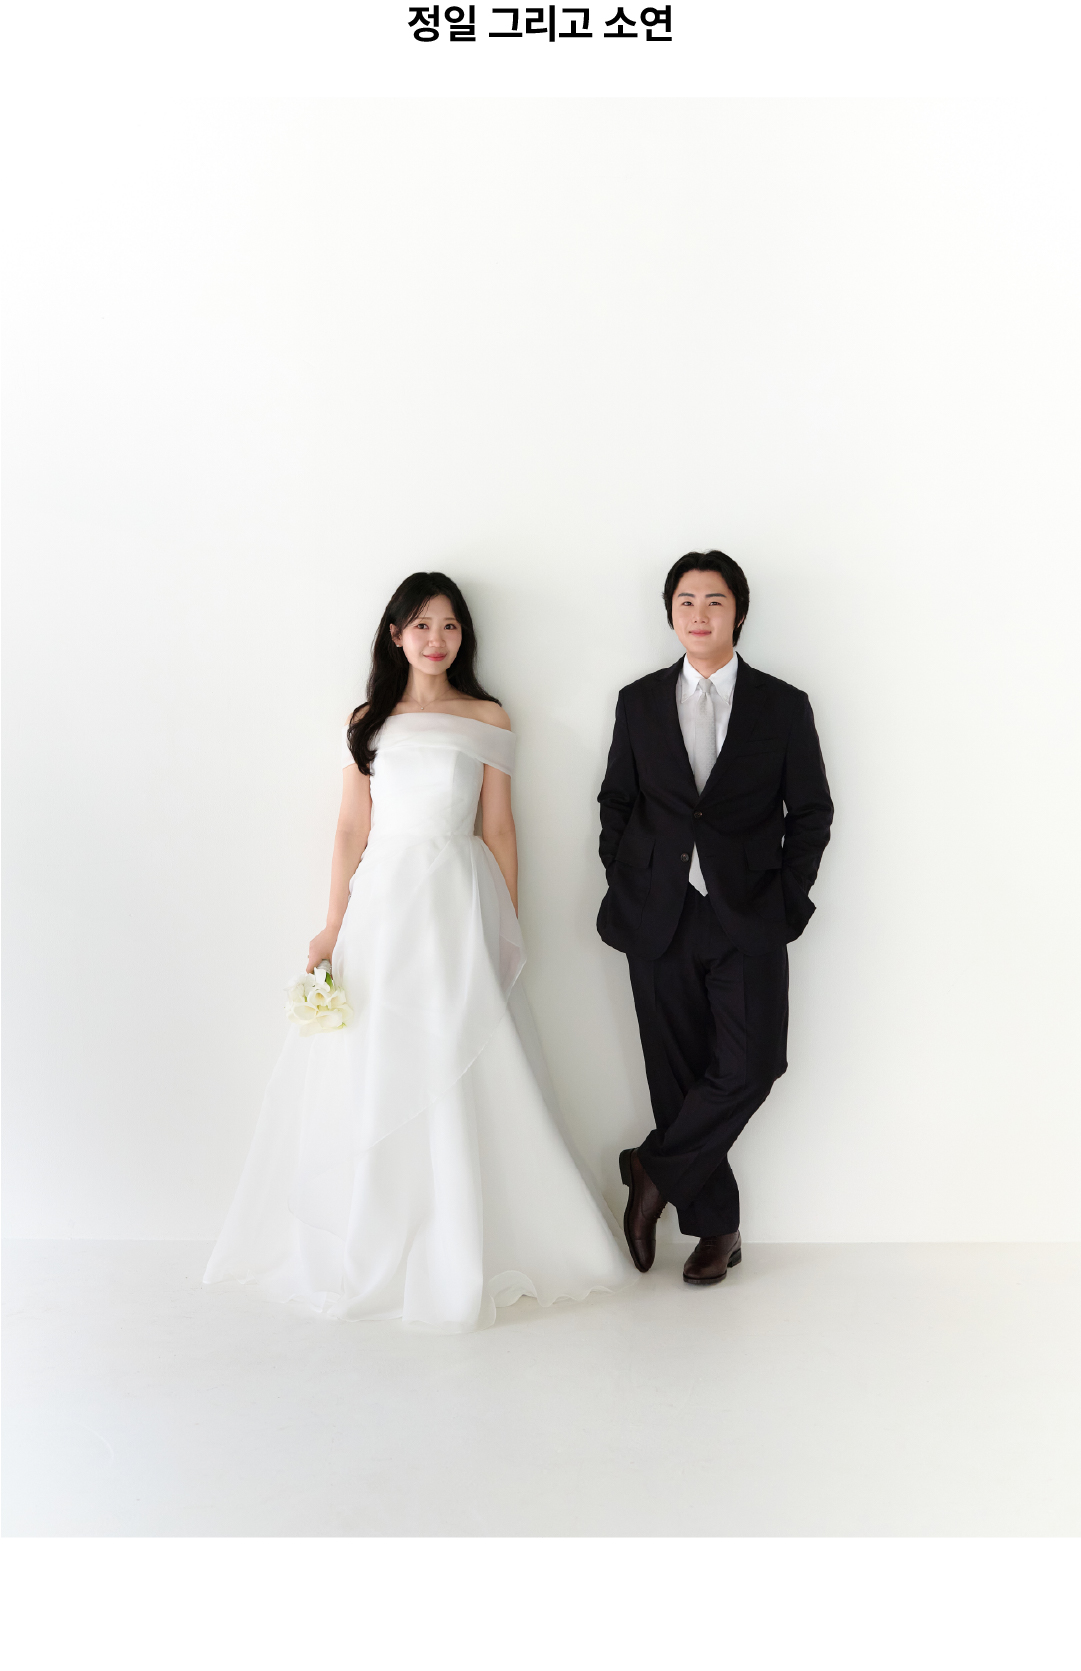
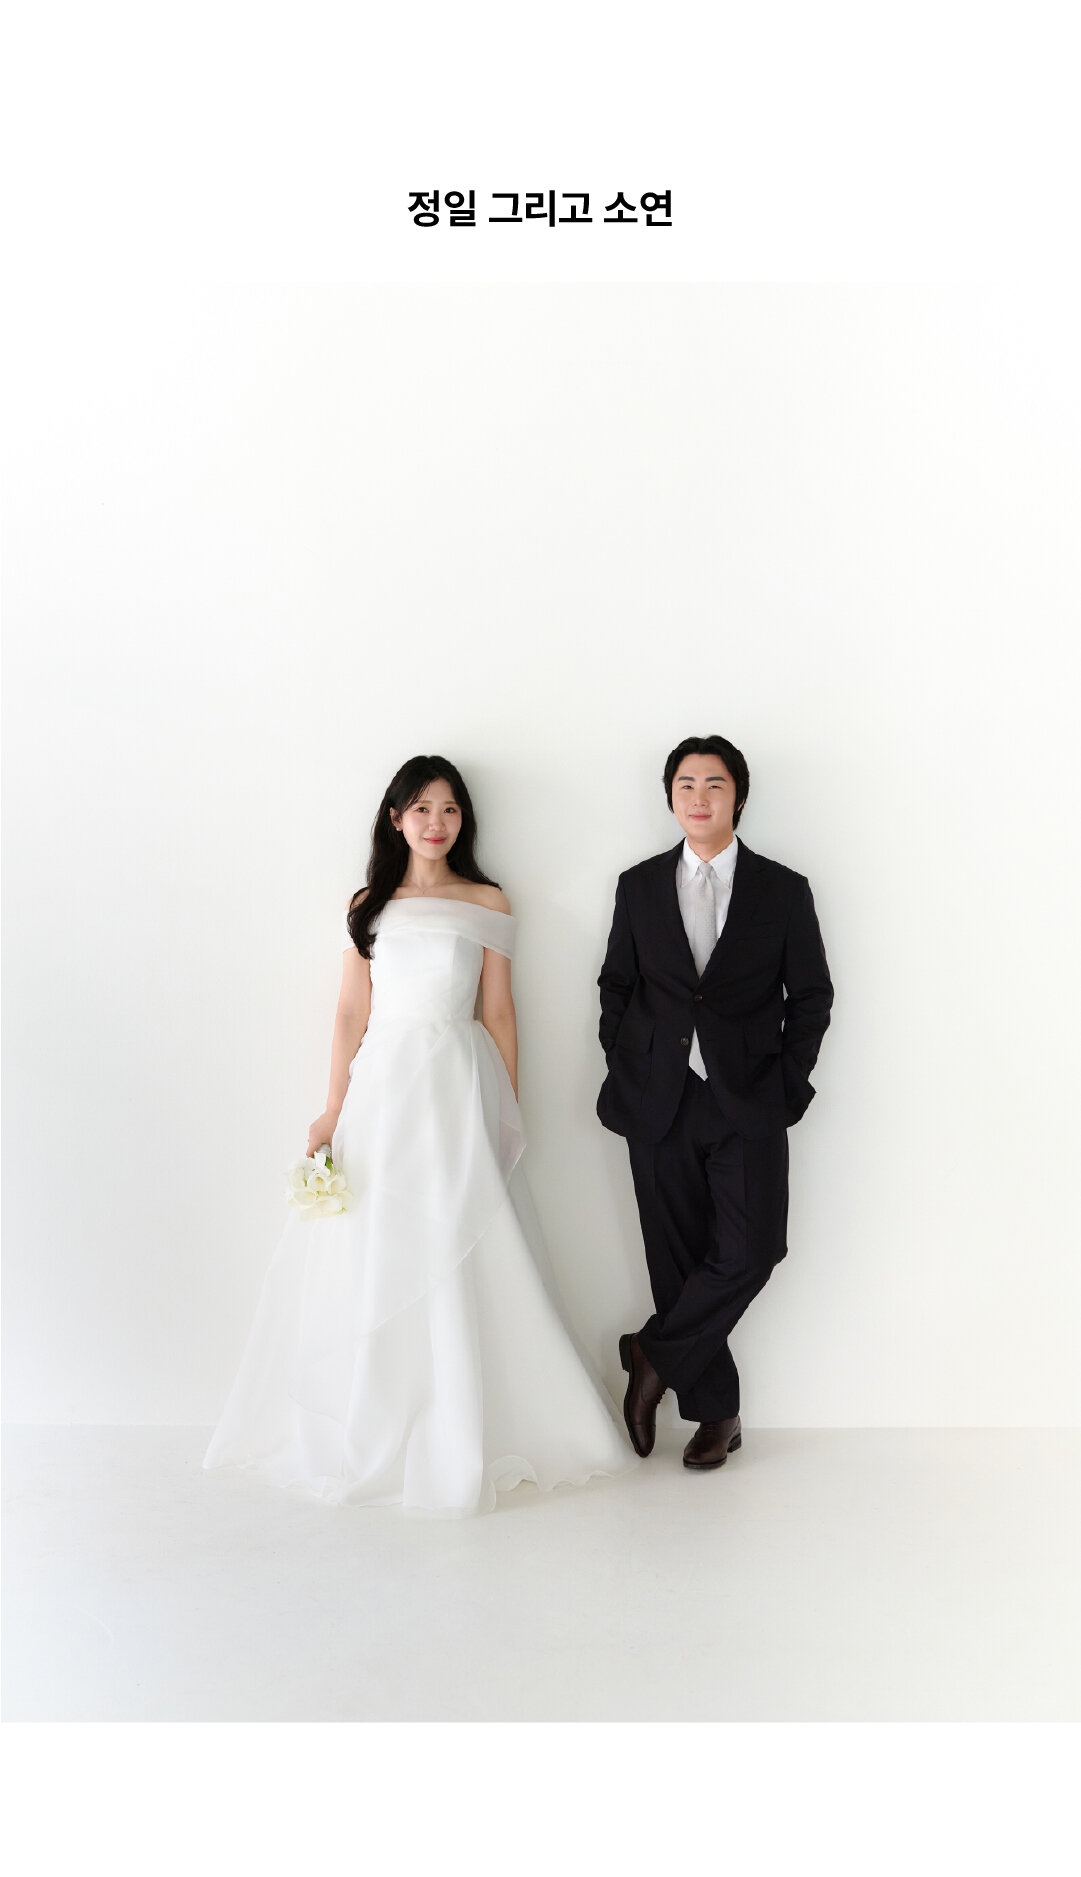
Add files via upload

diff --git a/index.html b/index.html
@@ -456,6 +456,14 @@
     </div>
   </section>
 
+  <!-- Wedding Film -->
+  <section class="film-section">
+    <h3>Wedding Film</h3>
+    <div class="film-wrap">
+      <iframe src="https://www.youtube.com/embed/MW7IBp1zAWA" title="Wedding Film" allow="accelerometer; autoplay; clipboard-write; encrypted-media; gyroscope; picture-in-picture" allowfullscreen></iframe>
+    </div>
+  </section>
+
   <!-- Our Story: 실내 -->
   <section class="img-section">
     <div class="flat-photo-wrap">
@@ -482,7 +490,10 @@
 
   <!-- Our Story: 야외 -->
   <section class="img-section">
-    <img src="images/ourstory-outdoor-1.jpg" alt="Our Story 야외">
+    <img src="images/ourstory-outdoor-1.jpg" alt="Our Story 야외 1">
+  </section>
+  <section class="img-section">
+    <img src="images/ourstory-outdoor-2.jpg" alt="Our Story 야외 2">
   </section>
 
   <!-- Special Thanks to -->
@@ -508,20 +519,6 @@
   <section class="img-section">
     <img src="images/invite-bottom.jpg" alt="주차 안내, 지하철 안내">
   </section>
-
-  <!-- Wedding Film -->
-  <section class="film-section">
-    <h3>Wedding Film</h3>
-    <div class="film-wrap">
-      <iframe src="https://www.youtube.com/embed/MW7IBp1zAWA" title="Wedding Film" allow="accelerometer; autoplay; clipboard-write; encrypted-media; gyroscope; picture-in-picture" allowfullscreen></iframe>
-    </div>
-  </section>
-
-  <!-- Gallery (image) -->
-  <section class="img-section">
-    <img class="lightbox-img" src="images/gallery.jpg" alt="갤러리">
-  </section>
-
 
   <!-- Account info -->
   <section class="account-section">
